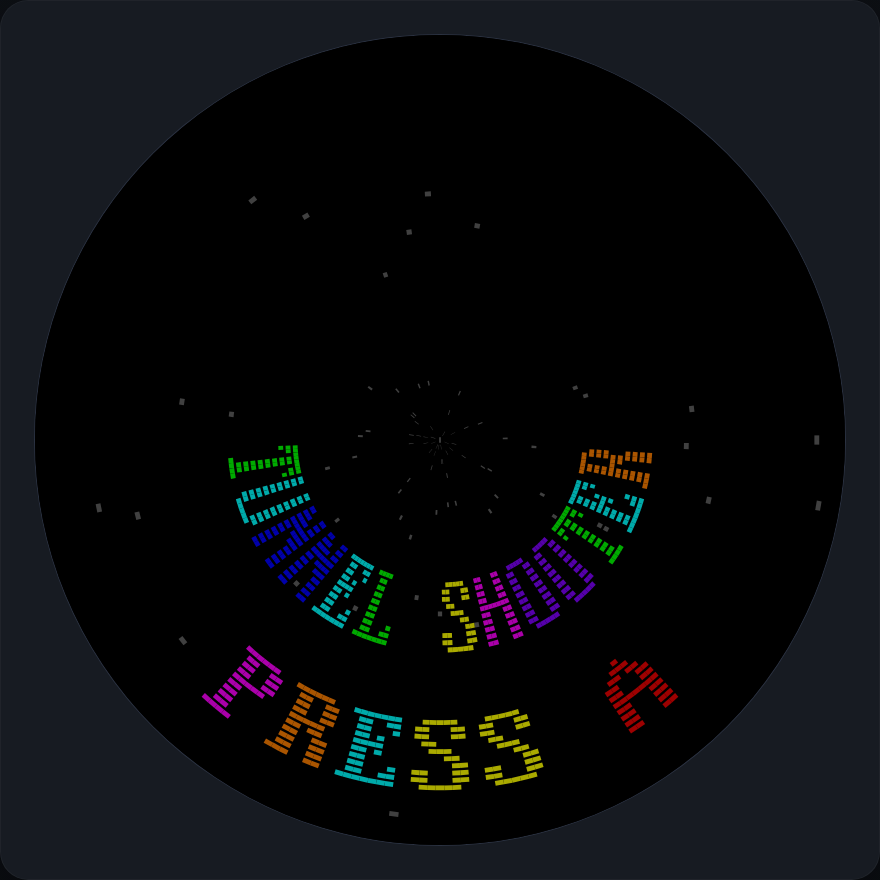
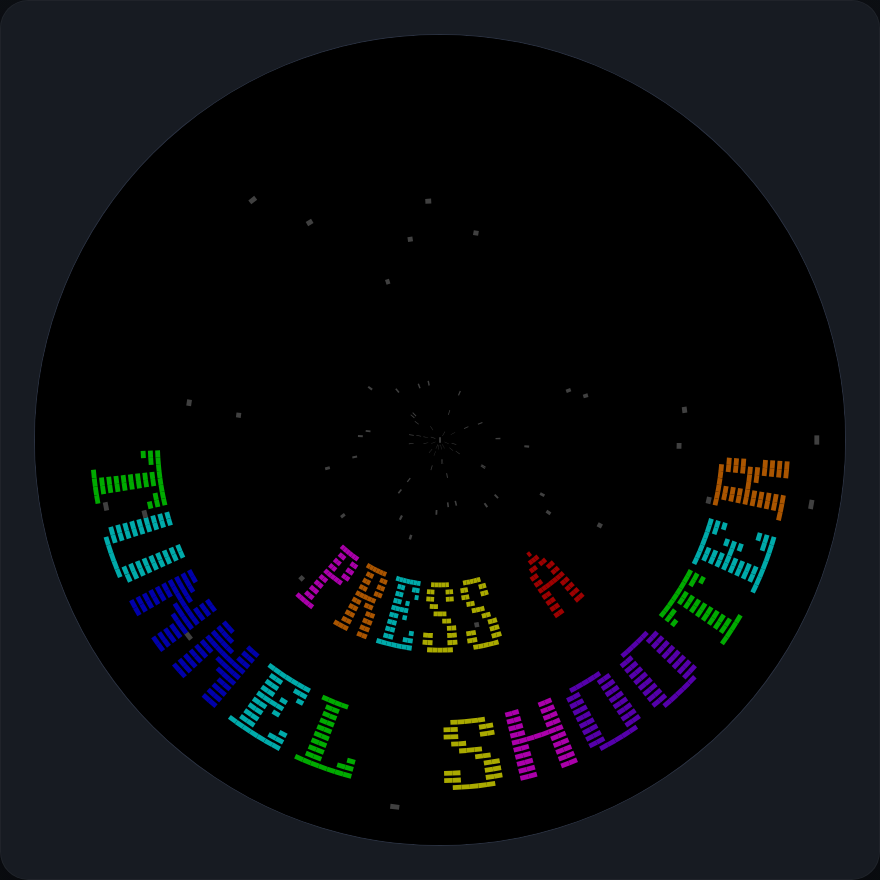
Add a game-over screenshot to the tutorial
examples/gameover.py opens the tutorial game's own GameOver scene with a fixed
score of 130, so the picture is deterministic instead of depending on random
enemy spawns. Retakes the title and gameplay shots for the new text layout and
adds the figure to chapter 6.

Claude-Session: https://claude.ai/code/session_01Am6eVYV27DcbeE9tF3fxdW

Changed region(s): [[0.092, 0.4909, 0.9205, 0.9205], [0.2455, 0.4909, 0.7364, 0.767], [0.9205, 0.5523, 0.9511, 0.583]]

diff --git a/tools/vs2_doc_images/examples/gameover.py b/tools/vs2_doc_images/examples/gameover.py
@@ -1,0 +1,8 @@
+"""The tutorial game's own GameOver scene, opened directly with a score a short
+game could reach (13 kills), so the screenshot does not depend on playing."""
+
+from games.demos.tutorial_game.code.tutorial_game import GameOver
+
+
+def main():
+    return GameOver(130)

diff --git a/tools/vs2_doc_images/README.md b/tools/vs2_doc_images/README.md
@@ -28,6 +28,7 @@ This table comes from `node capture.mjs --list`.
 | `labels-flips.png` | emulator screenshot, annotated | `examples/flips.py` | `node capture.mjs flips` | tutorial/tilemaps-and-text.md |
 | `game-title.png` | emulator screenshot | `games/demos/tutorial_game (played)` | `node capture.mjs game` | tutorial/scenes-and-input.md |
 | `game-play.png` | emulator screenshot | `games/demos/tutorial_game (played)` | `node capture.mjs game` | tutorial/index.md, tutorial/tilemaps-and-text.md |
+| `game-over.png` | emulator screenshot | `examples/gameover.py` | `node capture.mjs gameover` | tutorial/scenes-and-input.md |
 | `sprites-frames.png` | emulator screenshot, annotated | `examples/frames.py` | `node capture.mjs frames` | tutorial/sprites.md |
 | `pools.png` | emulator screenshot | `examples/pools.py` | `node capture.mjs pools` | tutorial/pools.md |
 | `tilemaps.png` | emulator screenshot | `examples/tilemap.py` | `node capture.mjs tilemap` | tutorial/tilemaps-and-text.md |
@@ -41,6 +42,9 @@ Notes on specific images:
   picture shows enemies at several depths, a shot in flight and a score above
   `00000` (the script fires a few shots, so a hit is likely but not certain).
   `game-title.png` is written by the same run.
+- **`game-over.png`** does not play the game: `examples/gameover.py` opens the
+  game's own `GameOver` scene with a fixed score of 130 (13 kills), so it is the
+  same every time.
 - **Annotated** images have text drawn over the screenshot (`labels` in
   `capture.mjs`). The text is placed in empty parts of the disc and in coordinates
   of an 880 pixel square, so it should still sit in the same place with the WebGL

diff --git a/docs/vs2/tutorial/scenes-and-input.md b/docs/vs2/tutorial/scenes-and-input.md
@@ -174,8 +174,8 @@ def centred_label(layer, text, y):
 class Title(vs2.Scene):
     def build(self):
         hud = self.layer("hud", projection=vs2.HUD)
-        centred_label(hud, "TUNNEL SHOOTER", y=20)
-        centred_label(hud, "PRESS A", y=1)
+        centred_label(hud, "TUNNEL SHOOTER", y=1)
+        centred_label(hud, "PRESS A", y=20)
 
     def update(self):
         if joy1.just_pressed(A):
@@ -189,10 +189,10 @@ class GameOver(vs2.Scene):
 
     def build(self):
         hud = self.layer("hud", projection=vs2.HUD)
-        centred_label(hud, "GAME OVER", y=30)
+        centred_label(hud, "GAME OVER", y=1)
         score = hud.label("numerals.png", columns=5, x=246, y=20)
         score.set_number(self.score, width=5, pad="0")
-        centred_label(hud, "PRESS A", y=1)
+        centred_label(hud, "PRESS A", y=28)
 
     def update(self):
         if joy1.just_pressed(A):
@@ -214,5 +214,19 @@ starts there:
 
 The title screen. Both lines are labels at the bottom of the disc.
 ```
+
+and the game-over screen, with the score handed over by the scene that ended
+the game:
+
+```{figure} ../images/game-over.png
+:alt: The game-over screen: GAME OVER in coloured letters along the rim, a score of 00130 above it, and PRESS A nearer the centre
+:width: 60%
+:align: center
+
+The game-over screen, here after 13 kills (130 points).
+```
+
+All the text sits at low Y, near the rim, where it is crisp. Text placed near the
+centre gets squeezed, as chapter 7 shows.
 
 Next: [budgets and real hardware](budgets.md).
